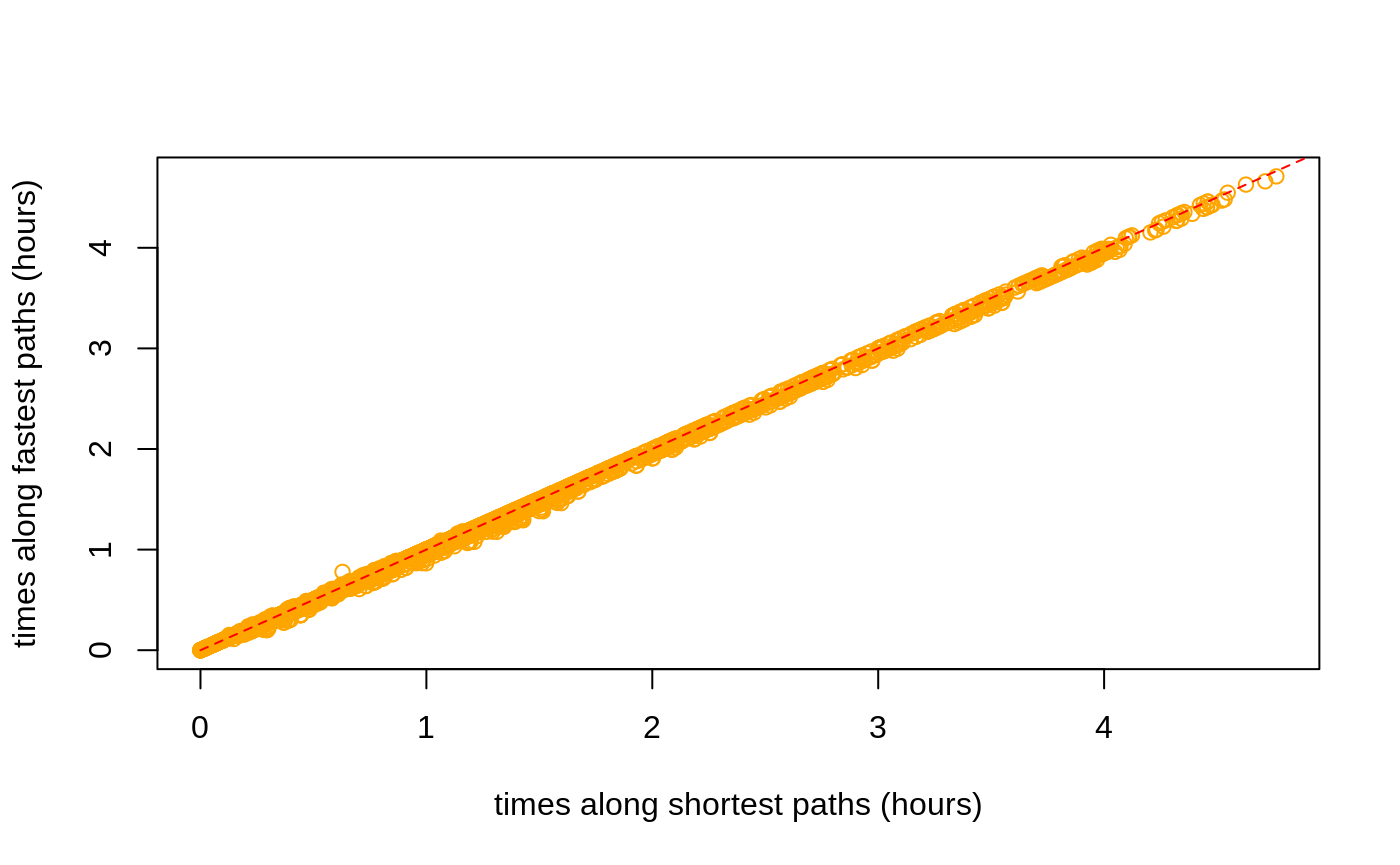
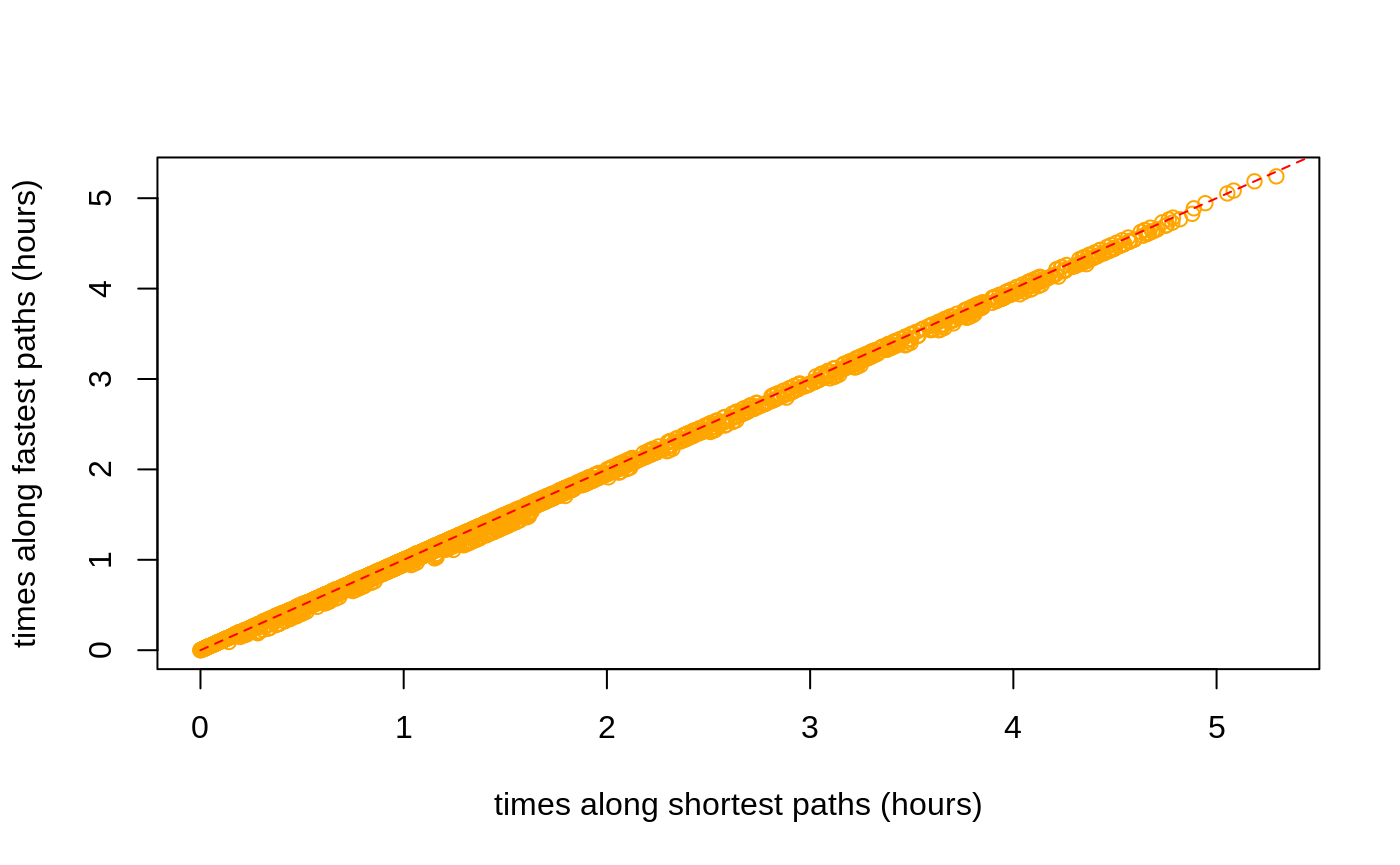
Built site for dodgr: 0.2.0.10@11815ea

diff --git a/articles/dodgr.html b/articles/dodgr.html
@@ -423,31 +423,31 @@ Figure 2: A <strong>dual</strong>-weighted, directed graph in which the weights 
 <p>The comparisons are actually made on a randomly selected sub-component of the graph containing a defined number of vertices (with a default of 1,000, or the entire graph if it contains fewer than 1,000 vertices).</p>
 <div class="sourceCode" id="cb77"><pre class="sourceCode r"><code class="sourceCode r"><a class="sourceLine" id="cb77-1" data-line-number="1"><span class="kw"><a href="../reference/compare_heaps.html">compare_heaps</a></span> (graph, <span class="dt">nverts =</span> <span class="dv">100</span>, <span class="dt">replications =</span> <span class="dv">1</span>)</a></code></pre></div>
 <pre><code>##                                                                                   test
-## 12                  d &lt;- igraph::distances(igr, v = from_id, to = to_id, mode = "out")
 ## 6       d &lt;- dodgr_dists(graph_contracted, from = from_id, to = to_id, heap = "BHeap")
 ## 7       d &lt;- dodgr_dists(graph_contracted, from = from_id, to = to_id, heap = "FHeap")
 ## 8     d &lt;- dodgr_dists(graph_contracted, from = from_id, to = to_id, heap = "TriHeap")
 ## 9  d &lt;- dodgr_dists(graph_contracted, from = from_id, to = to_id, heap = "TriHeapExt")
 ## 10     d &lt;- dodgr_dists(graph_contracted, from = from_id, to = to_id, heap = "Heap23")
 ## 11        d &lt;- dodgr_dists(graph_contracted, from = from_id, to = to_id, heap = "set")
+## 12                  d &lt;- igraph::distances(igr, v = from_id, to = to_id, mode = "out")
 ## 4             d &lt;- dodgr_dists(graph, from = from_id, to = to_id, heap = "TriHeapExt")
 ## 1                  d &lt;- dodgr_dists(graph, from = from_id, to = to_id, heap = "BHeap")
 ## 2                  d &lt;- dodgr_dists(graph, from = from_id, to = to_id, heap = "FHeap")
-## 5                 d &lt;- dodgr_dists(graph, from = from_id, to = to_id, heap = "Heap23")
 ## 3                d &lt;- dodgr_dists(graph, from = from_id, to = to_id, heap = "TriHeap")
+## 5                 d &lt;- dodgr_dists(graph, from = from_id, to = to_id, heap = "Heap23")
 ##    replications elapsed relative user.self sys.self user.child sys.child
-## 12            1   0.002      1.0     0.002    0.000          0         0
-## 6             1   0.003      1.5     0.003    0.000          0         0
-## 7             1   0.003      1.5     0.004    0.000          0         0
-## 8             1   0.003      1.5     0.003    0.000          0         0
-## 9             1   0.003      1.5     0.003    0.000          0         0
-## 10            1   0.003      1.5     0.003    0.000          0         0
-## 11            1   0.003      1.5     0.003    0.000          0         0
-## 4             1   0.005      2.5     0.005    0.000          0         0
-## 1             1   0.006      3.0     0.002    0.004          0         0
-## 2             1   0.006      3.0     0.006    0.000          0         0
-## 5             1   0.006      3.0     0.006    0.000          0         0
-## 3             1   0.007      3.5     0.006    0.000          0         0</code></pre>
+## 6             1   0.002      1.0     0.003        0          0         0
+## 7             1   0.002      1.0     0.003        0          0         0
+## 8             1   0.002      1.0     0.003        0          0         0
+## 9             1   0.002      1.0     0.002        0          0         0
+## 10            1   0.002      1.0     0.002        0          0         0
+## 11            1   0.002      1.0     0.002        0          0         0
+## 12            1   0.002      1.0     0.001        0          0         0
+## 4             1   0.003      1.5     0.004        0          0         0
+## 1             1   0.004      2.0     0.005        0          0         0
+## 2             1   0.004      2.0     0.005        0          0         0
+## 3             1   0.004      2.0     0.004        0          0         0
+## 5             1   0.004      2.0     0.004        0          0         0</code></pre>
 <p>The key column of that <code>data.frame</code> is <code>relative</code>, which quantifies the relative performance of each test in relation to the best which is given a score of 1. <code>dodgr</code> using the default <code>heap = "BHeap"</code>, which is a binary heap priority queue, performs faster than <a href="https://igraph.org"><code>igraph</code></a> <span class="citation">(Csardi and Nepusz 2006)</span> for these graphs. Different kind of graphs will perform differently with different priority queue structures, and this function enables users to empirically discern the optimal heap for their kind of graph.</p>
 <p>Note, however, that this is not an entirely fair comparison, because <code>dodgr</code> calculates dual-weighted distances, whereas <a href="https://igraph.org"><code>igraph</code></a>—and indeed all other <strong>R</strong> packages—only directly calculate distances based on a single set of weights. Implementing dual-weighted routing in these cases requires explicitly re-tracing all paths and summing the second set of weights along each path. A time comparison in that case would be very strongly in favour of <code>dodgr</code>. Moreover, <code>dodgr</code> can convert graphs to contracted form through removing redundant vertices, as detailed in the following section. Doing so greatly improves performance with respect to <a href="https://igraph.org"><code>igraph</code></a>.</p>
 <p>For those wishing to do explicit comparisons themselves, the following code generates the <a href="https://igraph.org"><code>igraph</code></a> equivalent of <a href="https://atfutures.github.io/dodgr/reference/dodgr_distances.html"><code><a href="../reference/dodgr_distances.html">dodgr_distances()</a></code></a>, although of course for single-weighted graphs only:</p>
@@ -500,11 +500,11 @@ Figure 3: <strong>(A)</strong> Vertex#2 is redundant for routing calculations fr
 <pre><code>## [1] 672</code></pre>
 <div class="sourceCode" id="cb89"><pre class="sourceCode r"><code class="sourceCode r"><a class="sourceLine" id="cb89-1" data-line-number="1">verts &lt;-<span class="st"> </span><span class="kw"><a href="https://rdrr.io/r/base/sample.html">sample</a></span> (<span class="kw"><a href="../reference/dodgr_vertices.html">dodgr_vertices</a></span> (graph)<span class="op">$</span>id, <span class="dt">size =</span> <span class="dv">100</span>)</a>
 <a class="sourceLine" id="cb89-2" data-line-number="2"><span class="kw"><a href="https://rdrr.io/r/utils/head.html">head</a></span> (verts) <span class="co"># a character vector</span></a></code></pre></div>
-<pre><code>## [1] "3921522525" "1143452262" "2588146109" "2398957637" "3544918791"
-## [6] "339574170"</code></pre>
+<pre><code>## [1] "6161030368" "980400874"  "980400907"  "1376768461" "2398957744"
+## [6] "2717241325"</code></pre>
 <div class="sourceCode" id="cb91"><pre class="sourceCode r"><code class="sourceCode r"><a class="sourceLine" id="cb91-1" data-line-number="1">grc &lt;-<span class="st"> </span><span class="kw"><a href="../reference/dodgr_contract_graph.html">dodgr_contract_graph</a></span> (graph, verts)</a>
 <a class="sourceLine" id="cb91-2" data-line-number="2"><span class="kw"><a href="https://rdrr.io/r/base/nrow.html">nrow</a></span> (grc)</a></code></pre></div>
-<pre><code>## [1] 850</code></pre>
+<pre><code>## [1] 852</code></pre>
 <p>Retaining the nominated vertices yields a graph with considerably more edges than the fully contracted graph excluding these vertices. The <a href="https://atfutures.github.io/dodgr/reference/dodgr_distances.html"><code><a href="../reference/dodgr_distances.html">dodgr_distances()</a></code></a> function can be applied to the latter graph to obtain accurate distances precisely routed between these points, yet using the speed advantages of graph contraction.</p>
 </div>
 </div>
@@ -545,70 +545,40 @@ Figure 3: <strong>(A)</strong> Vertex#2 is redundant for routing calculations fr
 <pre><code>## [1] 10</code></pre>
 <p>The result (<code>dp</code>) is a list of 10 items, each of which contains 5 vectors. An example is,</p>
 <div class="sourceCode" id="cb98"><pre class="sourceCode r"><code class="sourceCode r"><a class="sourceLine" id="cb98-1" data-line-number="1">dp [[<span class="dv">1</span>]] [[<span class="dv">1</span>]]</a></code></pre></div>
-<pre><code>##   [1] "6161853533" "6161853534" "6161853535" "6161853536" "6161853537"
-##   [6] "6161853538" "6161853539" "6161853540" "6161853541" "4046458364"
-##  [11] "4046458359" "3158960627" "3158960601" "3158960600" "3158960602"
-##  [16] "3158960629" "3158960630" "2717241327" "2717241336" "2717241333"
-##  [21] "2717241308" "339574826"  "339574825"  "339574824"  "339574823" 
-##  [26] "1668645472" "1668645470" "3818714154" "339574820"  "339574819" 
-##  [31] "3818714155" "2398957686" "339574631"  "2717241324" "1148814809"
-##  [36] "2398957654" "2398957639" "339574630"  "339574629"  "2398957619"
-##  [41] "339574628"  "1427115955" "338905128"  "1376769164" "1376768779"
-##  [46] "338905219"  "2398957589" "2398957588" "1376768510" "1376769086"
-##  [51] "2398957584" "338905220"  "2398957576" "1427594104" "2398957571"
-##  [56] "2398957570" "2398957568" "338905221"  "2398957564" "338905227" 
-##  [61] "2398957561" "2398957557" "2398957549" "338905245"  "2398957546"
-##  [66] "2398957544" "2398957543" "2398957542" "676635860"  "2398957537"
-##  [71] "2398957532" "2398957526" "2398957521" "676875267"  "2398957539"
-##  [76] "2419196948" "313796433"  "1376768773" "2398957554" "2398957555"
-##  [81] "313796432"  "3338186986" "2398957563" "2398957567" "313796431" 
-##  [86] "313796430"  "1376769158" "1427594112" "313796429"  "2398957603"
-##  [91] "313796428"  "313796427"  "1128374399" "313796426"  "1128374495"
-##  [96] "2398957696" "2398957701" "1376768565" "2398957713" "1376769010"
-## [101] "2398957720" "313796425"  "2398957722" "1376768805" "245631169" 
-## [106] "676875269"  "1128374442" "1376769190" "1128374412" "6161027522"
-## [111] "1128374373" "1128374467" "1376768504" "1161117304" "1376768867"
-## [116] "676875274"  "1376768293" "1376768650" "1128374447" "1376769132"
-## [121] "676875308"  "1376768537" "1161117735" "1376768899" "1161117723"
-## [126] "1376768325" "1376768597" "1357430113" "1376768957" "676875276" 
-## [131] "1376768380" "1357430014" "1376768749" "1376769220" "1128374360"
-## [136] "1161117548" "1357430213" "676875279"  "1128374362" "1376768627"
-## [141] "245631194"  "1376768986" "1376768409" "1128374418" "977461235" 
-## [146] "1376768691" "2398957816" "1128374394" "2398957826" "2398957837"
-## [151] "1376769040" "1376768479" "677638770"  "1376768821" "1128374434"
-## [156] "2398957895" "2398957896" "1376768842" "1128374455" "1376768355"
-## [161] "677638819"  "1376768724" "2398957939" "1161117636" "2398957968"
-## [166] "1128374490" "2398958005" "2398958010" "1161117434" "6433630456"
-## [171] "677638818"  "2398958040" "2398958041" "2398958043" "2398958044"
-## [176] "1161117327" "1128374463" "1691496075" "1691496072" "1161117278"
-## [181] "1691496070" "677638820"  "1161117679" "1691496079" "1161117383"
-## [186] "1691495929" "1161117501" "1376769146" "1161117440" "1691495934"
-## [191] "1161117756" "1691495939" "1161117392" "1691495943" "1691495952"
-## [196] "1161117526" "1691495982" "1161117586" "1161117652" "677638817" 
-## [201] "1691495985" "1691495910" "1161117288" "1691496204" "1691496236"
-## [206] "1161117404" "1691496237" "1691496247" "1161117704" "1691496243"
-## [211] "1691496251" "1161117663" "1691495937" "1691495665" "1161117302"
-## [216] "1691495672" "1161117452" "1691495677" "1691495680" "1691495693"
-## [221] "1161117543" "1691495696" "245631502"  "1691495698" "1161117349"
-## [226] "1691495717" "1691495720" "1691495723" "677638823"  "677638822" 
-## [231] "1691495727" "676875383"  "1691496081" "1161117620" "1161117473"
-## [236] "1691496086" "677638821"  "1691496190" "1691496364" "1161117772"
-## [241] "1161117358" "1161117413" "677638829"  "1691496367" "1691495745"
-## [246] "1691496372" "1691496406" "1691496404" "1691496375" "1691496407"
-## [251] "677638825"  "1691496409" "1161117556" "1691496412" "677638828" 
-## [256] "1691496416" "677638827"  "3544918684" "3544918688" "3544918690"
-## [261] "3544918692" "3544918695" "1691496284" "3544918699"</code></pre>
+<pre><code>##   [1] "2398957576" "338905220"  "2398957584" "1376769086" "1376768510"
+##   [6] "2398957588" "2398957589" "338905219"  "1376768779" "1376769164"
+##  [11] "338905128"  "1427115955" "339574628"  "2398957619" "339574629" 
+##  [16] "339574630"  "2398957639" "2398957654" "1148814809" "2717241324"
+##  [21] "339574631"  "2398957686" "3818714155" "339574819"  "339574820" 
+##  [26] "3818714154" "6228103645" "6228103646" "6228103647" "6228103648"
+##  [31] "6228103649" "339574828"  "339574829"  "1376768626" "1376768985"
+##  [36] "1376768324" "1376768690" "1376769039" "1376768478" "1560930407"
+##  [41] "1376768586" "1376768946" "1376768369" "1376768738" "2717241312"
+##  [46] "2717241323" "2717241306" "2717241321" "2717241309" "2717241332"
+##  [51] "2717241339" "2717241317" "2717241331" "2717241300" "2717241302"
+##  [56] "6410121124" "1376768559" "1376768918" "1376769209" "1376768614"
+##  [61] "1376768975" "1376768398" "1376768862" "1376768464" "1376768828"
+##  [66] "1376769110" "3697937607" "3697937608" "3697937609" "3697937616"
+##  [71] "3697937612" "3697937611" "3697937613" "3697937614" "3697937615"
+##  [76] "3697937610" "3697937571" "3697938325" "3697938326" "3697938327"
+##  [81] "3697938328" "3697938332" "3697938329" "3697938330" "3697938331"
+##  [86] "3697938336" "3697938337" "3697938338" "3697938333" "3697938334"
+##  [91] "3697938335" "3697938022" "3697938021" "3697938023" "3697938024"
+##  [96] "338904455"  "2398957843" "338908589"  "1148814896" "286632900" 
+## [101] "2398957865" "676875132"  "1148815150" "286632901"  "2398957883"
+## [106] "2398957885" "339574320"  "286632902"  "6161027560" "980400323" 
+## [111] "2398957878" "2398957876"</code></pre>
 <p>For spatial graphs, the coordinates of these paths can be obtained by extracting the vertices with <code><a href="../reference/dodgr_vertices.html">dodgr_vertices()</a></code> and matching the vertex IDs:</p>
 <div class="sourceCode" id="cb100"><pre class="sourceCode r"><code class="sourceCode r"><a class="sourceLine" id="cb100-1" data-line-number="1">verts &lt;-<span class="st"> </span><span class="kw"><a href="../reference/dodgr_vertices.html">dodgr_vertices</a></span> (graph)</a>
 <a class="sourceLine" id="cb100-2" data-line-number="2">path1 &lt;-<span class="st"> </span>verts [<span class="kw"><a href="https://rdrr.io/r/base/match.html">match</a></span> (dp [[<span class="dv">1</span>]] [[<span class="dv">1</span>]], verts<span class="op">$</span>id), ]</a>
 <a class="sourceLine" id="cb100-3" data-line-number="3"><span class="kw"><a href="https://rdrr.io/r/utils/head.html">head</a></span> (path1)</a></code></pre></div>
 <pre><code>##              id        x        y component    n
-## 5846 6161853533 76.47303 15.32233         1 2875
-## 5848 6161853534 76.47300 15.32226         1 2876
-## 5850 6161853535 76.47297 15.32195         1 2877
-## 5852 6161853536 76.47305 15.32186         1 2878
-## 5854 6161853537 76.47306 15.32177         1 2879
-## 5856 6161853538 76.47303 15.32164         1 2880</code></pre>
+## 4660 2398957576 76.47415 15.31172         1 2314
+## 47    338905220 76.47398 15.31224         1   24
+## 4656 2398957584 76.47386 15.31251         1 2313
+## 4654 1376769086 76.47376 15.31270         1 2312
+## 4652 1376768510 76.47370 15.31279         1 2311
+## 4650 2398957588 76.47361 15.31285         1 2310</code></pre>
 <p>Paths calculated on contracted graphs will of course have fewer vertices than those calculated on full graphs.</p>
 </div>
 <div id="aggregated-flows" class="section level1">
@@ -652,7 +622,7 @@ Figure 3: <strong>(A)</strong> Vertex#2 is redundant for routing calculations fr
 <p>Most flows are zero because they have only been calculated between very few points in the graph.</p>
 <div class="sourceCode" id="cb105"><pre class="sourceCode r"><code class="sourceCode r"><a class="sourceLine" id="cb105-1" data-line-number="1"><span class="kw"><a href="https://rdrr.io/r/base/summary.html">summary</a></span> (graph_f<span class="op">$</span>flow)</a></code></pre></div>
 <pre><code>##    Min. 1st Qu.  Median    Mean 3rd Qu.    Max. 
-##   0.000   0.000   0.000   7.330   8.305  69.191</code></pre>
+##   0.000   0.000   0.000   6.012   0.000 122.472</code></pre>
 </div>
 <div id="flow-dispersal" class="section level2">
 <h2 class="hasAnchor">
@@ -662,7 +632,7 @@ Figure 3: <strong>(A)</strong> Vertex#2 is redundant for routing calculations fr
 <a class="sourceLine" id="cb107-2" data-line-number="2">graph_f &lt;-<span class="st"> </span><span class="kw"><a href="../reference/dodgr_flows_disperse.html">dodgr_flows_disperse</a></span> (graph, <span class="dt">from =</span> from, <span class="dt">dens =</span> dens)</a>
 <a class="sourceLine" id="cb107-3" data-line-number="3"><span class="kw"><a href="https://rdrr.io/r/base/summary.html">summary</a></span> (graph_f<span class="op">$</span>flow)</a></code></pre></div>
 <pre><code>##      Min.   1st Qu.    Median      Mean   3rd Qu.      Max. 
-## 0.000e+00 0.000e+00 0.000e+00 3.891e-06 0.000e+00 8.818e-03</code></pre>
+## 0.000e+00 0.000e+00 0.000e+00 2.114e-06 0.000e+00 6.935e-03</code></pre>
 </div>
 <div id="merging-directed-flows" class="section level2">
 <h2 class="hasAnchor">
@@ -672,7 +642,7 @@ Figure 3: <strong>(A)</strong> Vertex#2 is redundant for routing calculations fr
 <p>Resultant graphs produced by <a href="https://atfutures.github.io/dodgr/reference/merge_directed_flows.html"><code><a href="../reference/merge_directed_flows.html">merge_directed_flows()</a></code></a> only include those edges having non-zero flows, and so:</p>
 <div class="sourceCode" id="cb110"><pre class="sourceCode r"><code class="sourceCode r"><a class="sourceLine" id="cb110-1" data-line-number="1"><span class="kw"><a href="https://rdrr.io/r/base/nrow.html">nrow</a></span> (graph_f); <span class="kw"><a href="https://rdrr.io/r/base/nrow.html">nrow</a></span> (graph_undir) <span class="co"># the latter is much smaller</span></a></code></pre></div>
 <pre><code>## [1] 5973</code></pre>
-<pre><code>## [1] 2066</code></pre>
+<pre><code>## [1] 1950</code></pre>
 <p>The resultant graph can readily be merged with the original graph to regain the original data on vertex coordinates through</p>
 <div class="sourceCode" id="cb113"><pre class="sourceCode r"><code class="sourceCode r"><a class="sourceLine" id="cb113-1" data-line-number="1">graph &lt;-<span class="st"> </span>graph [graph_undir<span class="op">$</span>edge_id, ]</a>
 <a class="sourceLine" id="cb113-2" data-line-number="2">graph<span class="op">$</span>flow &lt;-<span class="st"> </span>graph_undir<span class="op">$</span>flow</a></code></pre></div>

diff --git a/articles/times.html b/articles/times.html
@@ -230,11 +230,11 @@ Figure 1: Graph modification to account for turn penalties, which introduces the
 <p><img src="times_files/figure-html/shortest-vs-fastest-1.png" width="700"></p>
 <p>The average distance between the two (in metres) is:</p>
 <div class="sourceCode" id="cb9"><pre class="sourceCode r"><code class="sourceCode r"><a class="sourceLine" id="cb9-1" data-line-number="1"><span class="kw"><a href="https://rdrr.io/r/base/mean.html">mean</a></span> (<span class="kw"><a href="https://rdrr.io/r/base/MathFun.html">abs</a></span> (d_time <span class="op">-</span><span class="st"> </span>d_dist), <span class="dt">na.rm =</span> <span class="ot">TRUE</span>)</a></code></pre></div>
-<pre><code>## [1] 31.60253</code></pre>
+<pre><code>## [1] 39.87143</code></pre>
 <p>The plot reveals that shortest distances are indeed somewhat shorter than distances along fastest paths, but also that some fastest paths are actually shorter than shortest paths:</p>
 <div class="sourceCode" id="cb11"><pre class="sourceCode r"><code class="sourceCode r"><a class="sourceLine" id="cb11-1" data-line-number="1">index &lt;-<span class="st"> </span><span class="kw"><a href="https://rdrr.io/r/base/which.html">which</a></span> (<span class="op">!</span><span class="kw"><a href="https://rdrr.io/r/base/NA.html">is.na</a></span> (d_time) <span class="op">&amp;</span><span class="st"> </span><span class="op">!</span><span class="kw"><a href="https://rdrr.io/r/base/NA.html">is.na</a></span> (d_dist))</a>
 <a class="sourceLine" id="cb11-2" data-line-number="2"><span class="kw"><a href="https://rdrr.io/r/base/length.html">length</a></span> (<span class="kw"><a href="https://rdrr.io/r/base/which.html">which</a></span> (d_time [index] <span class="op">&lt;</span><span class="st"> </span>d_dist [index])) <span class="op">/</span><span class="st"> </span><span class="kw"><a href="https://rdrr.io/r/base/length.html">length</a></span> (index)</a></code></pre></div>
-<pre><code>## [1] 0.02677196</code></pre>
+<pre><code>## [1] 0.0143776</code></pre>
 <p>While <code>dodgr</code> and indeed all routing engines attempt to maximally reconcile differences between fastest and shortest routes, there nevertheless remain important discrepancies. Foremost among these, and the primary reason why some fastest routes may in fact be shorter than shortest routes, is that fastest routes allocate preferences for different kinds of way based both on the <code>value</code> column in the <code>weighting_profiles$weighting_profiles</code> table illustrated above, and on the actual maximum speed of a given edge, which itself may be a combination of maximum speeds as specified in OSM itself, maximum speeds from the <code>weighting_profiles$weighting_profiles</code> table, or values specific to a given surface. The result is that some unique combination of maximum speeds along a network may lead to <em>fastest</em> routes being preferentially directed along a path that is actually shorter than the direct shortest path which is calculated independent of maximum speed values.</p>
 <p>Such discrepancies are important in understanding differences in routes <em>times</em> calculated along shortest versus fastest paths. These times can be calculated (in seconds) with the <a href="https://atfutures.github.io/dodgr/reference/dodgr_times.html"><code><a href="../reference/dodgr_times.html">dodgr_times()</a></code></a> function:</p>
 <div class="sourceCode" id="cb13"><pre class="sourceCode r"><code class="sourceCode r"><a class="sourceLine" id="cb13-1" data-line-number="1">t_dist &lt;-<span class="st"> </span><span class="kw"><a href="../reference/dodgr_times.html">dodgr_times</a></span> (graph, <span class="dt">from =</span> from, <span class="dt">to =</span> to, <span class="dt">shortest =</span> <span class="ot">TRUE</span>) <span class="co"># default</span></a>
@@ -245,11 +245,11 @@ Figure 1: Graph modification to account for turn penalties, which introduces the
 <a class="sourceLine" id="cb13-6" data-line-number="6"><span class="kw"><a href="https://rdrr.io/r/graphics/lines.html">lines</a></span> (<span class="dv">0</span><span class="op">:</span><span class="dv">100</span>, <span class="dv">0</span><span class="op">:</span><span class="dv">100</span>, <span class="dt">col =</span> <span class="st">"red"</span>, <span class="dt">lty =</span> <span class="dv">2</span>)</a></code></pre></div>
 <p><img src="times_files/figure-html/shortest-vs-fastest-times-1.png" width="700"></p>
 <div class="sourceCode" id="cb14"><pre class="sourceCode r"><code class="sourceCode r"><a class="sourceLine" id="cb14-1" data-line-number="1"><span class="kw"><a href="https://rdrr.io/r/base/mean.html">mean</a></span> (<span class="kw"><a href="https://rdrr.io/r/base/MathFun.html">abs</a></span> (t_time <span class="op">-</span><span class="st"> </span>t_dist), <span class="dt">na.rm =</span> <span class="ot">TRUE</span>)</a></code></pre></div>
-<pre><code>## [1] 35.0463</code></pre>
+<pre><code>## [1] 42.88652</code></pre>
 <p>As above, times along fastest paths are generally less than times along shortest paths, although there are again a few exceptions:</p>
 <div class="sourceCode" id="cb16"><pre class="sourceCode r"><code class="sourceCode r"><a class="sourceLine" id="cb16-1" data-line-number="1">index &lt;-<span class="st"> </span><span class="kw"><a href="https://rdrr.io/r/base/which.html">which</a></span> (<span class="op">!</span><span class="kw"><a href="https://rdrr.io/r/base/NA.html">is.na</a></span> (t_time) <span class="op">&amp;</span><span class="st"> </span><span class="op">!</span><span class="kw"><a href="https://rdrr.io/r/base/NA.html">is.na</a></span> (t_dist))</a>
 <a class="sourceLine" id="cb16-2" data-line-number="2"><span class="kw"><a href="https://rdrr.io/r/base/length.html">length</a></span> (<span class="kw"><a href="https://rdrr.io/r/base/which.html">which</a></span> (t_dist [index] <span class="op">&lt;</span><span class="st"> </span>t_time [index])) <span class="op">/</span><span class="st"> </span><span class="kw"><a href="https://rdrr.io/r/base/length.html">length</a></span> (index)</a></code></pre></div>
-<pre><code>## [1] 0.008474576</code></pre>
+<pre><code>## [1] 0.007567159</code></pre>
 <p>These results demonstrate how the combination of the <a href="https://atfutures.github.io/dodgr/reference/dodgr_distances.html"><code><a href="../reference/dodgr_distances.html">dodgr_distances()</a></code></a> and <a href="https://atfutures.github.io/dodgr/reference/dodgr_times.html"><code><a href="../reference/dodgr_times.html">dodgr_times()</a></code></a> functions enable calculation of both distances and times along both shortest and fastest paths.</p>
 <div id="time-based-paths-and-flow-aggregation" class="section level2">
 <h2 class="hasAnchor">

diff --git a/reference/compare_heaps.html b/reference/compare_heaps.html
@@ -156,31 +156,31 @@ fair comparisons, run only once or re-start the current R session.</p>
     <h2 class="hasAnchor" id="examples"><a class="anchor" href="#examples"></a>Examples</h2>
     <pre class="examples"><div class='input'><span class='no'>graph</span> <span class='kw'>&lt;-</span> <span class='fu'><a href='weight_streetnet.html'>weight_streetnet</a></span> (<span class='no'>hampi</span>)
 <span class='fu'>compare_heaps</span> (<span class='no'>graph</span>, <span class='kw'>nverts</span> <span class='kw'>=</span> <span class='fl'>1000</span>, <span class='kw'>replications</span> <span class='kw'>=</span> <span class='fl'>1</span>)</div><div class='output co'>#&gt;                                                                                   test
-#&gt; 11        d &lt;- dodgr_dists(graph_contracted, from = from_id, to = to_id, heap = "set")
 #&gt; 6       d &lt;- dodgr_dists(graph_contracted, from = from_id, to = to_id, heap = "BHeap")
 #&gt; 7       d &lt;- dodgr_dists(graph_contracted, from = from_id, to = to_id, heap = "FHeap")
-#&gt; 10     d &lt;- dodgr_dists(graph_contracted, from = from_id, to = to_id, heap = "Heap23")
 #&gt; 8     d &lt;- dodgr_dists(graph_contracted, from = from_id, to = to_id, heap = "TriHeap")
 #&gt; 9  d &lt;- dodgr_dists(graph_contracted, from = from_id, to = to_id, heap = "TriHeapExt")
+#&gt; 10     d &lt;- dodgr_dists(graph_contracted, from = from_id, to = to_id, heap = "Heap23")
+#&gt; 11        d &lt;- dodgr_dists(graph_contracted, from = from_id, to = to_id, heap = "set")
 #&gt; 1                  d &lt;- dodgr_dists(graph, from = from_id, to = to_id, heap = "BHeap")
 #&gt; 12                  d &lt;- igraph::distances(igr, v = from_id, to = to_id, mode = "out")
 #&gt; 2                  d &lt;- dodgr_dists(graph, from = from_id, to = to_id, heap = "FHeap")
-#&gt; 3                d &lt;- dodgr_dists(graph, from = from_id, to = to_id, heap = "TriHeap")
 #&gt; 5                 d &lt;- dodgr_dists(graph, from = from_id, to = to_id, heap = "Heap23")
+#&gt; 3                d &lt;- dodgr_dists(graph, from = from_id, to = to_id, heap = "TriHeap")
 #&gt; 4             d &lt;- dodgr_dists(graph, from = from_id, to = to_id, heap = "TriHeapExt")
 #&gt;    replications elapsed relative user.self sys.self user.child sys.child
-#&gt; 11            1   0.004     1.00     0.006        0          0         0
-#&gt; 6             1   0.005     1.25     0.006        0          0         0
-#&gt; 7             1   0.006     1.50     0.009        0          0         0
-#&gt; 10            1   0.006     1.50     0.009        0          0         0
-#&gt; 8             1   0.007     1.75     0.009        0          0         0
-#&gt; 9             1   0.007     1.75     0.008        0          0         0
-#&gt; 1             1   0.015     3.75     0.023        0          0         0
-#&gt; 12            1   0.019     4.75     0.019        0          0         0
-#&gt; 2             1   0.024     6.00     0.041        0          0         0
-#&gt; 3             1   0.028     7.00     0.049        0          0         0
-#&gt; 5             1   0.028     7.00     0.049        0          0         0
-#&gt; 4             1   0.029     7.25     0.029        0          0         0</div></pre>
+#&gt; 6             1   0.003    1.000     0.004    0.000          0         0
+#&gt; 7             1   0.004    1.333     0.005    0.000          0         0
+#&gt; 8             1   0.004    1.333     0.005    0.000          0         0
+#&gt; 9             1   0.004    1.333     0.004    0.000          0         0
+#&gt; 10            1   0.004    1.333     0.005    0.000          0         0
+#&gt; 11            1   0.004    1.333     0.004    0.000          0         0
+#&gt; 1             1   0.012    4.000     0.014    0.003          0         0
+#&gt; 12            1   0.014    4.667     0.015    0.000          0         0
+#&gt; 2             1   0.017    5.667     0.027    0.000          0         0
+#&gt; 5             1   0.019    6.333     0.033    0.000          0         0
+#&gt; 3             1   0.020    6.667     0.033    0.000          0         0
+#&gt; 4             1   0.020    6.667     0.021    0.000          0         0</div></pre>
   </div>
   <div class="col-md-3 hidden-xs hidden-sm" id="sidebar">
     <h2>Contents</h2>

diff --git a/reference/dodgr_sample.html b/reference/dodgr_sample.html
@@ -143,7 +143,7 @@ the requested <code>nverts</code>.</p>
     <h2 class="hasAnchor" id="examples"><a class="anchor" href="#examples"></a>Examples</h2>
     <pre class="examples"><div class='input'><span class='no'>graph</span> <span class='kw'>&lt;-</span> <span class='fu'><a href='weight_streetnet.html'>weight_streetnet</a></span> (<span class='no'>hampi</span>)
 <span class='fu'><a href='https://rdrr.io/r/base/nrow.html'>nrow</a></span> (<span class='no'>graph</span>) <span class='co'># 5,742</span></div><div class='output co'>#&gt; [1] 5973</div><div class='input'><span class='no'>graph</span> <span class='kw'>&lt;-</span> <span class='fu'>dodgr_sample</span> (<span class='no'>graph</span>, <span class='kw'>nverts</span> <span class='kw'>=</span> <span class='fl'>200</span>)
-<span class='fu'><a href='https://rdrr.io/r/base/nrow.html'>nrow</a></span> (<span class='no'>graph</span>) <span class='co'># generally around 400 edges</span></div><div class='output co'>#&gt; [1] 397</div><div class='input'><span class='fu'><a href='https://rdrr.io/r/base/nrow.html'>nrow</a></span> (<span class='fu'><a href='dodgr_vertices.html'>dodgr_vertices</a></span> (<span class='no'>graph</span>)) <span class='co'># 200</span></div><div class='output co'>#&gt; [1] 200</div></pre>
+<span class='fu'><a href='https://rdrr.io/r/base/nrow.html'>nrow</a></span> (<span class='no'>graph</span>) <span class='co'># generally around 400 edges</span></div><div class='output co'>#&gt; [1] 399</div><div class='input'><span class='fu'><a href='https://rdrr.io/r/base/nrow.html'>nrow</a></span> (<span class='fu'><a href='dodgr_vertices.html'>dodgr_vertices</a></span> (<span class='no'>graph</span>)) <span class='co'># 200</span></div><div class='output co'>#&gt; [1] 200</div></pre>
   </div>
   <div class="col-md-3 hidden-xs hidden-sm" id="sidebar">
     <h2>Contents</h2>
